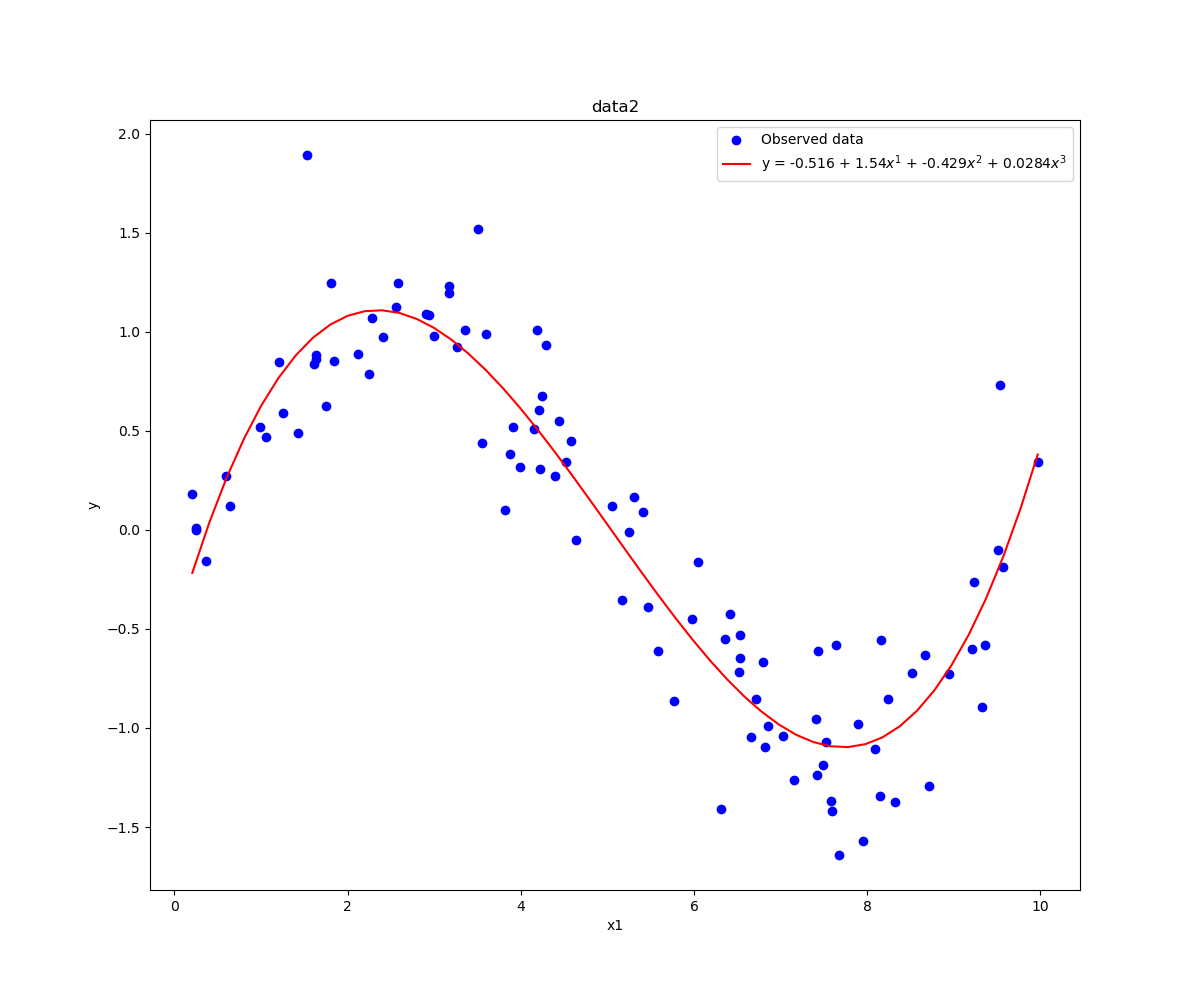
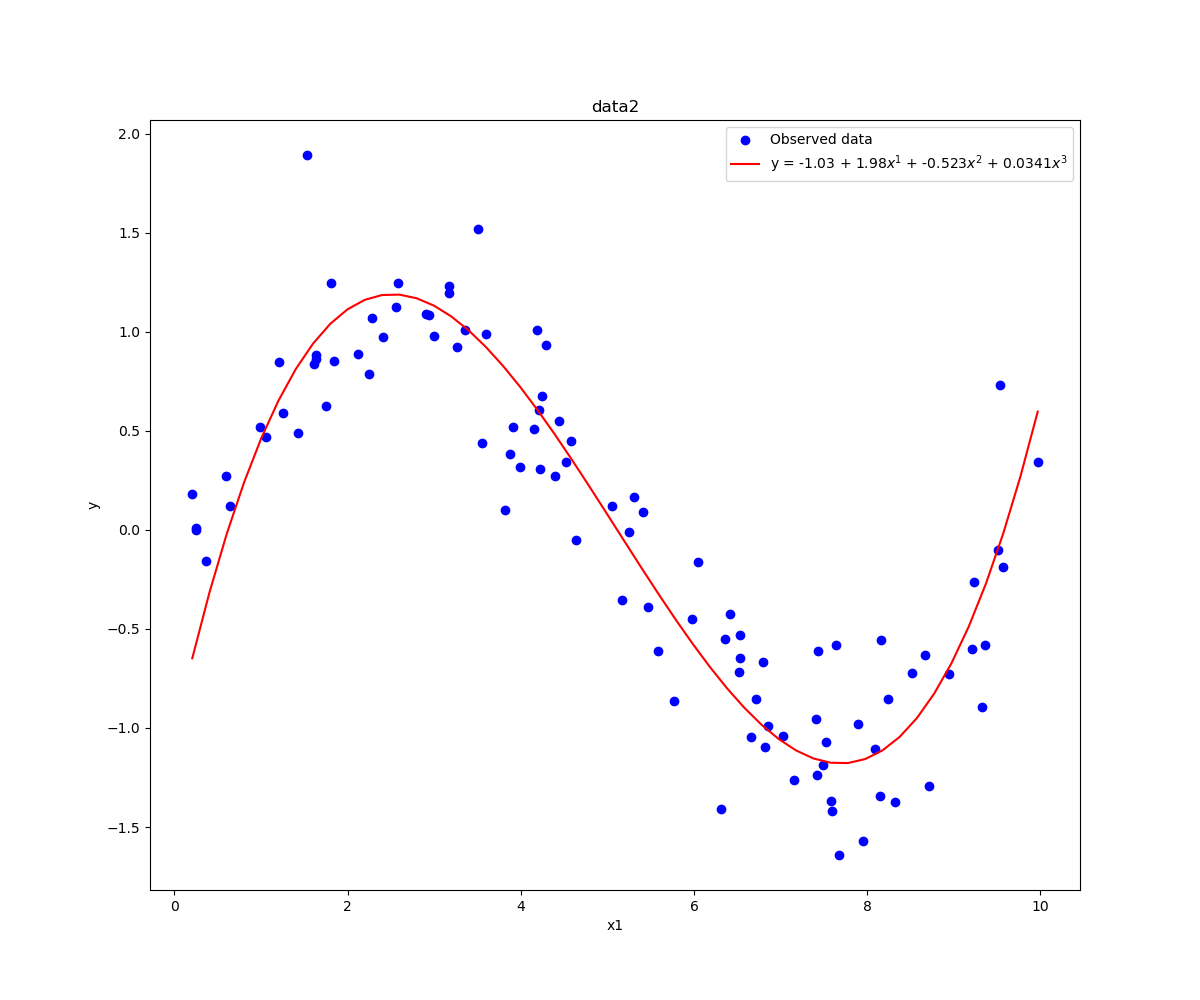
L2 regularize

diff --git a/ex3/sawada/main.py b/ex3/sawada/main.py
@@ -7,7 +7,7 @@ from mpl_toolkits.mplot3d import Axes3D
 
 
 def regression_2d(data, title, dim=1,
-                  regularize=False, mode="L2", reg_coef=1.0):
+                  regularize=False, reg_coef=1.0):
     data_regression = np.zeros((data.shape[0], dim + 1))
     x_linspace = np.linspace(np.min(data[:, 0]), np.max(data[:, 0]), 50)
     x_plot = np.zeros((50, dim))
@@ -17,7 +17,7 @@ def regression_2d(data, title, dim=1,
         x_plot[:, i] = np.power(x_linspace, i + 1)
     data_regression[:, dim] = data[:, 1]
 
-    coefficient = linear_regression(data_regression, regularize, mode, reg_coef)
+    coefficient = linear_regression(data_regression, regularize, reg_coef)
     # plot initialization
     fig, ax = plt.subplots(figsize=(12, 10))
     fig.subplots_adjust(hspace=0.6)
@@ -44,13 +44,12 @@ def regression_2d(data, title, dim=1,
         plt.show()
 
 
-def linear_regression(data, regularize=False, mode="L2", reg_coef=1.0):
+def linear_regression(data, regularize=False, reg_coef=1.0):
     """linear regression
 
     Args:
         data (ndarray, size=(data_column, variables)): observation data.
-        regularize (bool, optional): enable regularize. Defaults to False.
-        mode (str, optional): regularize mode. "L2" or "L1". Defaults to L2.
+        regularize (bool, optional): enable L2 regularize. Defaults to False.
         reg_coef (float, optional): regularize coefficient. Defaults to 1.0.
 
     Returns:
@@ -67,15 +66,11 @@ def linear_regression(data, regularize=False, mode="L2", reg_coef=1.0):
     # add constant term
     x = np.concatenate([np.ones((data_length, 1)), data[:, :-1]], 1)
 
-    if (mode == "L2"):
-        parameters = \
-            np.linalg.inv(x.T @ x - reg * np.identity(data_dim)) \
-            @ x.T \
-            @ data[:, -1]
-    elif (mode == "L1"):
-        parameters = \
-            np.linalg.inv(x.T @ x) \
-            @ (data[:, -1] @ x - reg * np.identity(data_dim))
+    parameters = \
+        np.linalg.inv(x.T @ x - reg * np.identity(data_dim)) \
+        @ x.T \
+        @ data[:, -1]
+
     return parameters
 
 
@@ -83,10 +78,12 @@ if __name__ == "__main__":
     parser = argparse.ArgumentParser(description='ex3')
     parser.add_argument("-i", "--input", help="input file id", type=int)
     parser.add_argument("-d", '--dimension', type=int)
+    parser.add_argument("-r", "--regularize", action="store_true")
     args = parser.parse_args()
 
     # read data
     data = pd.read_csv(f"../data{args.input}.csv").values
 
     if (data.shape[1] == 2):
-        regression_2d(data, f"data{args.input}", dim=args.dimension)
+        regression_2d(data, f"data{args.input}", dim=args.dimension,
+                      regularize=args.regularize)
